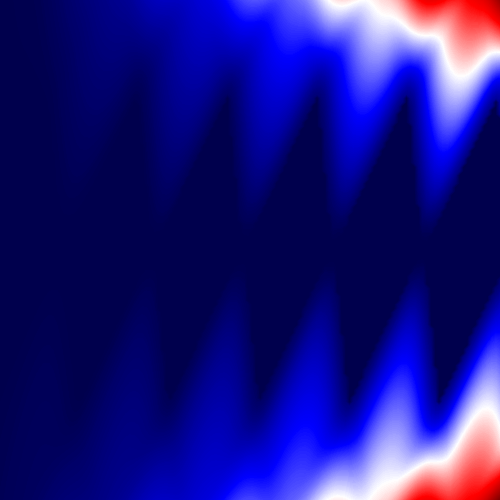
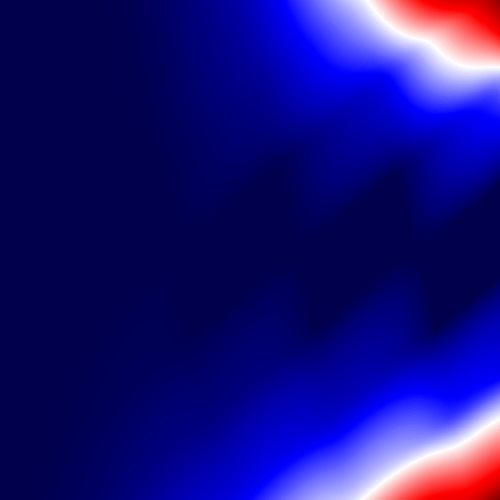
Fixed issue with skewed bounding boxes and added some useful comments

diff --git a/simulation.py b/simulation.py
@@ -43,17 +43,28 @@ class QuantumDot:
     h = 4.1357E-15
     k_B = 8.6173E-5
     T = 0.01
-    V_SD_max = uniform(0.15,0.3)
-    V_G_min = uniform(0.005,0.3)
-    V_G_max = uniform(1,2)
+
+    # These following voltage parameters are chosen to prevent the following issue
+    # Previously, I had an issue where when an image of the simulation was generated the bounding boxes would be skewed
+    # The reasons for this were
+        # The number of steps/voltage values for the individual y and x axis didn't match
+        # The difference between each of the voltage values for the axis (the steps) didn't match
+    # This mean't when trying to output a 500/500 square the rectangular bounding boxes were skewed.
+
+    V_SD_max = 0.25
+    V_G_min = 0.005
+    V_G_max = 0.505
+    step_size = 0.005
+
+    DPI = 100
     image_hw = 500 # pixel resolution of image (image_hw x image_hw)
-    volt_steps = randint(100, 150) # number of steps
     V_SD_offset = uniform(0.0001, 0.001)
-    V_SD = np.linspace(- V_SD_max - V_SD_offset, V_SD_max, volt_steps) + V_SD_offset# random factor added so the diamonds
+    V_G_offset = uniform(0.00001, 0.001)
+
+    V_SD = np.linspace(- V_SD_max, V_SD_max, 100) + V_SD_offset# random factor added so the diamonds
     # aren't always in the vertical centre.
-
-    V_G = np.linspace(V_G_min, V_G_max, volt_steps)
-
+    V_G = np.arange(V_G_min, V_G_max, step_size) #+ V_G_offset
+    V_G = np.linspace(V_G_min, V_G_max, 100) + V_G_offset
     # Generate 2D array to represent possible voltage combinations
     V_SD_grid, V_G_grid = np.meshgrid(V_SD, V_G)
 
@@ -78,12 +89,12 @@ class QuantumDot:
         QuantumDot.simCount += 1
         seed(datetime.now())  # use current time as random number seed
         self.N = range(1, 25)
-        self.N_0 = 0
+        self.N_0 = 0 # I think making this non-zero offsets the bounding boxes used for object detection
         self.I_tot = np.zeros(self.V_SD_grid.shape)
         self.diamond_starts = np.zeros((1, len(self.N)))
-        self.C_S = 10E-19 * uniform(0.1, 1)  # Uniform used for some random variation
-        self.C_D = 10E-19 * uniform(0.2, 1)
-        self.C_G = 1E-18 * uniform(1, 7)
+        self.C_S = 10E-19 * uniform(0.1, 1.5)  # Uniform used for some random variation
+        self.C_D = 10E-19 * uniform(0.2, 1.5)
+        self.C_G = 1E-18 * uniform(1, 8.5)
         self.C = self.C_S + self.C_D + self.C_G
         self.E_C = (self.e ** 2) / self.C
 
@@ -262,8 +273,9 @@ class QuantumDot:
             False if no diamonds are within the voltage space (not successful)
         """
 
-        fig = plt.figure(simulation_number, figsize=(self.image_hw/100,self.image_hw/100))
+        fig = plt.figure(simulation_number, figsize=(self.image_hw/self.DPI,self.image_hw/self.DPI))
         ax = fig.add_axes([0, 0, 1, 1])
+
 
         E_N_previous = 0
         Estate_height_previous = 0  # stores previous various excited energy height above ground level
@@ -414,15 +426,17 @@ class QuantumDot:
         ET.SubElement(size, "depth").text = "3"
 
         ET.SubElement(root, "segmented").text = "0"
+        # fig.savefig(path + "images/example_image_{0}.png".format(simulation_number), dpi=(self.DPI))  # Save training image
+
         for i in range(
                 len(self.N) - 1):  # need -1 as block would attempt to access index N otherwise and it doesn't exist
 
             # Parameters in standard units / true values
             width = self.diamond_starts[0, i + 1] - self.diamond_starts[0, i]
             D_x = self.diamond_starts[0, i] # start of diamond
-            D_y = 0
+            D_y = self.V_SD_offset
             B_x = self.diamond_starts[0, i] + width # end of diamond
-            B_y = 0
+            B_y = self.V_SD_offset
             # positive grad. top-left
             A_x = (positive_slope * self.diamond_starts[0, i] - negative_slope * self.diamond_starts[0, i + 1]) / (
                    positive_slope - negative_slope)  # analytical formula derived by equating equations of lines
@@ -433,19 +447,20 @@ class QuantumDot:
                     positive_slope - negative_slope)
             C_y = positive_slope * (C_x - self.diamond_starts[0, i + 1])
 
+            # Compute relevant variables for the computation of bounding box coordinates
             theta = np.arctan(positive_slope)
-            alpha = np.abs(np.arctan(negative_slope))
+            alpha = np.abs((np.arctan(negative_slope)))
             BtoA = np.sqrt((B_x - A_x)**2 + (B_y - A_y)**2)
             DtoC = np.sqrt((C_x - D_x)**2 + (C_y - D_y)**2)
             BtoP = BtoA * np.cos(np.pi - alpha - theta)
             DtoQ = DtoC * np.cos(np.pi - alpha - theta)
             P_x = B_x + BtoP * np.cos(theta)
             P_y = B_y + BtoP * np.sin(theta)
-
             Q_x = D_x - DtoQ * np.cos(theta)
             Q_y = D_y - DtoQ * np.sin(theta)
 
-            # turn true values into pixel coordinates
+
+            # turn true values of bounding box coordinates into pixel coordinates
             A_x_scaled, A_y_scaled = ax.transData.transform((A_x,A_y))
             A_y_scaled = self.image_hw - A_y_scaled
             C_x_scaled, C_y_scaled = ax.transData.transform((C_x,C_y))
@@ -455,16 +470,19 @@ class QuantumDot:
             P_x_scaled, P_y_scaled = ax.transData.transform((P_x,P_y))
             P_y_scaled = self.image_hw - P_y_scaled
 
+
             # ensure bounding boxes within 10px from edge are not detected/noted
-            condition_1 = (P_x_scaled < (self.image_hw - 10)) and (Q_x_scaled > 10)
-            condition_2 = (C_y_scaled < (self.image_hw - 10)) and (A_y_scaled > 10)
+            condition_1 = (P_x_scaled < (self.image_hw)) and (Q_x_scaled > 0)
+            condition_2 = (C_y_scaled < (self.image_hw)) and (A_y_scaled > 0)
             if (condition_1 and condition_2):
+
                 # xy = np.array([[A_x,A_y],
                 #               [P_x,P_y],
                 #               [C_x,C_y],
                 #               [Q_x,Q_y]])
-                # p1 = patches.Polygon(xy, linewidth=1, edgecolor='g', facecolor='none')
-                # ax.add_patch(p1)
+                # rect = patches.Polygon(xy, linewidth=1, edgecolor='g', facecolor='none')
+                # ax.add_patch(rect)
+
 
                 object = ET.SubElement(root, "object")
                 ET.SubElement(object, "name").text = "diamond"
@@ -496,9 +514,9 @@ class QuantumDot:
             #print("Retrying simulation of Quantum Dot", simulation_number)
             return False
         else:
-            fig.savefig(path + "images/{0}.png".format(simulation_number), dpi=(1000))  # Save training image
+            fig.savefig(path + "images/example_image_{0}_bb.png".format(simulation_number), dpi=(self.DPI))  # Save training image
             tree = ET.ElementTree(root)
-            tree.write(path + "labeltxt/{0}.xml".format(simulation_number))
+            tree.write(path + "labeltxt/example_image_{0}.xml".format(simulation_number))
             plt.close(simulation_number)
             return True
 

diff --git a/main.py b/main.py
@@ -49,12 +49,18 @@ if __name__ == "__main__":
                 helper.noise = noise
                 if argument_2 > 0:
                     helper.path = "./data/train/"
-                    helper.generate_examples(argument_2) # generate training set
-                    print("Training set saved to", helper.path)
+                    try:
+                        helper.generate_examples(argument_2) # generate training set
+                        print("Training set saved to", helper.path)
+                    except:
+                        print("An error has occured. Please make sure you have closed the files you are attempting to write to.")
                 if argument_3 > 0:
                     helper.path = "./data/test/"
-                    helper.generate_examples(argument_3)  # generate test set
-                    print("Test set saved to", helper.path)
+                    try:
+                        helper.generate_examples(argument_3)  # generate test set
+                        print("Test set saved to", helper.path)
+                    except:
+                        print("An error has occured. Please make sure you have closed the files you are attempting to write to.")
 
             except (IndexError, TypeError):
                 print("Make sure to pass the required arguments."
